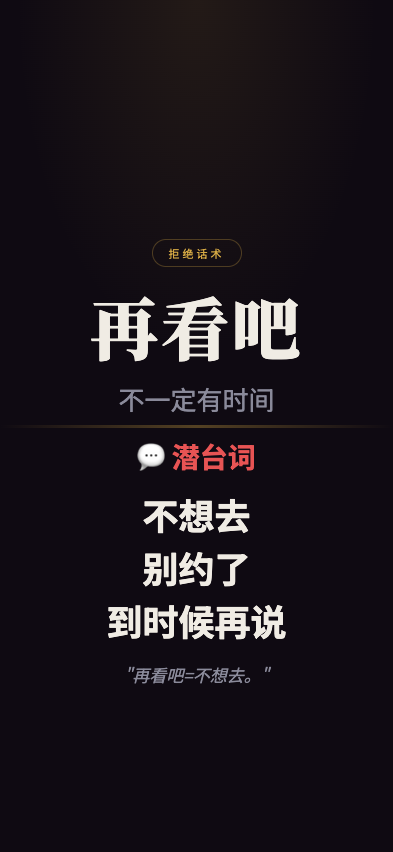
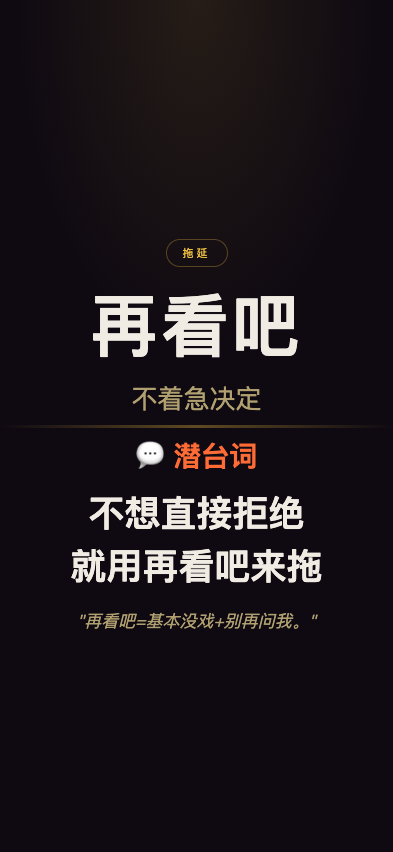
feat: 职场生存法则 screenshot - zaikanba

diff --git a/wuliao-tools/tools/biz-speak/scenes/zaikanba.html b/wuliao-tools/tools/biz-speak/scenes/zaikanba.html
@@ -9,9 +9,9 @@
   :root {
     --bg: #0f0a12;
     --text: #f0ece4;
-    --text-dim: #8a8a9a;
-    --gold: #d4a843;
-    --red: #e85454;
+    --text-dim: #b0a070;
+    --gold: #f0c040;
+    --red: #ff6b35;
   }
   * { margin:0; padding:0; box-sizing:border-box; }
   html, body { width:100%; height:100%; overflow:hidden; }
@@ -24,11 +24,11 @@
   }
   body::before {
     content:''; position:absolute; top:0; left:0; right:0; height:45%;
-    background:radial-gradient(ellipse at 50% 0%, rgba(212,168,67,0.1) 0%, transparent 65%);
+    background:radial-gradient(ellipse at 50% 0%, rgba(240,192,64,0.1) 0%, transparent 65%);
     pointer-events:none; z-index:0;
   }
   .top { flex:1; display:flex; flex-direction:column; align-items:center; justify-content:flex-end; padding:4px 28px 8px; position:relative; z-index:1; }
-  .tag { font-size:11px; letter-spacing:3px; color:var(--gold); border:1px solid rgba(212,168,67,0.3); padding:5px 16px; border-radius:50px; margin-bottom:20px; }
+  .tag { font-size:11px; letter-spacing:3px; color:var(--gold); border:1px solid rgba(240,192,64,0.3); padding:5px 16px; border-radius:50px; margin-bottom:20px; }
   .main-title { font-family:'Noto Serif SC'; font-size:68px; font-weight:900; text-align:center; line-height:1.15; letter-spacing:3px; min-width:0; overflow-wrap:break-word; max-width:92%; }
   .sub-title { font-size:26px; color:var(--text-dim); text-align:center; margin-top:14px; }
   .divider { width:100%; height:3px; background:linear-gradient(90deg,transparent,var(--gold),transparent); opacity:0.35; flex-shrink:0; position:relative; z-index:1; }
@@ -41,19 +41,18 @@
 </head>
 <body>
   <div class="top">
-    <div class="tag">拒绝话术</div>
+    <div class="tag">拖延</div>
     <div class="main-title">再看吧</div>
-    <div class="sub-title">不一定有时间</div>
+    <div class="sub-title">不着急决定</div>
   </div>
   <div class="divider"></div>
   <div class="bottom">
     <div class="truth-label">💬 潜台词</div>
     <div class="truth-lines">
-      <div class="truth-line">不想去</div>
-      <div class="truth-line">别约了</div>
-      <div class="truth-line">到时候再说</div>
+      <div class="truth-line">不想直接拒绝</div>
+      <div class="truth-line">就用再看吧来拖</div>
     </div>
-    <div class="quote">"再看吧=不想去。"</div>
+    <div class="quote">"再看吧=基本没戏+别再问我。"</div>
   </div>
 </body>
 </html>
